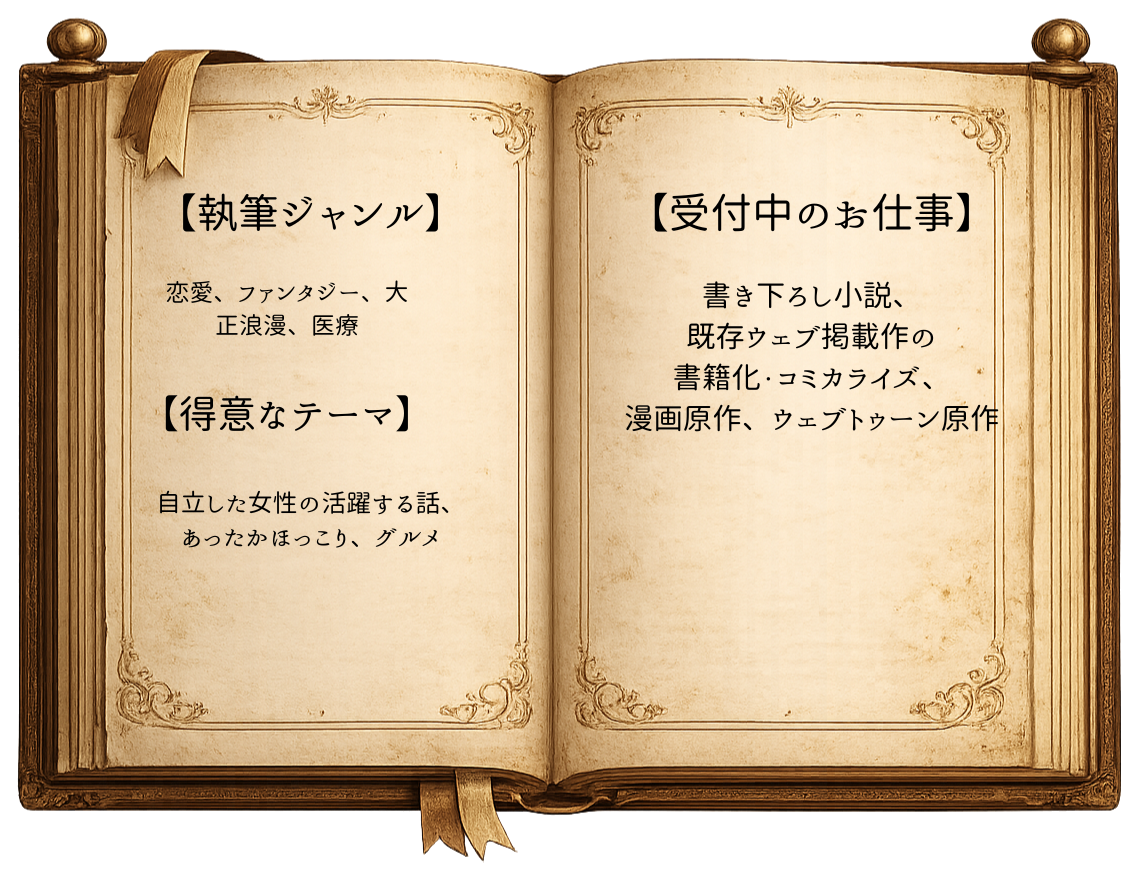
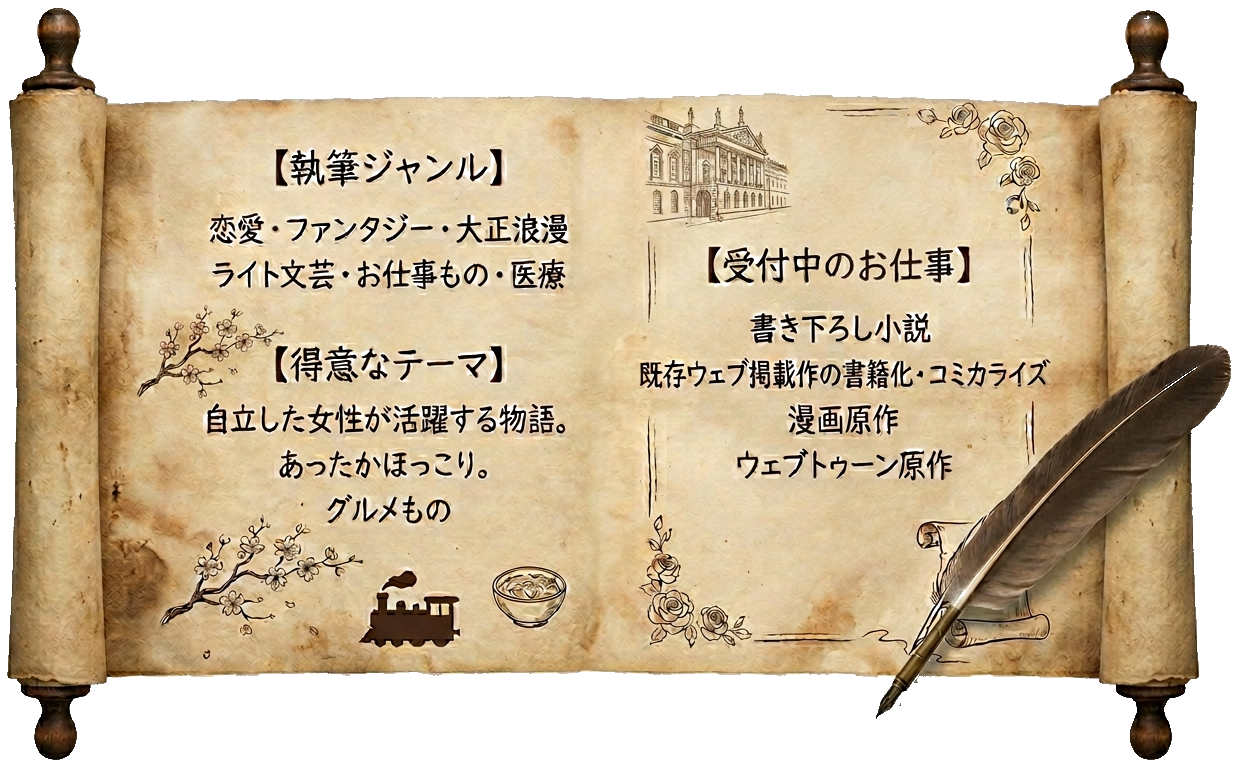
Replace author info book image

diff --git a/index.html b/index.html
@@ -273,7 +273,7 @@
             </div>
 
             <h2 id="author-info-heading" class="sr-only">作家情報</h2>
-            <img src="images/author-info-book.png" alt="執筆ジャンル: 恋愛、ファンタジー、大正浪漫、医療。得意なテーマ: 自立した女性の活躍する話、あったかほっこり、グルメ。受付中のお仕事: 書き下ろし小説、既存ウェブ掲載作の書籍化、コミカライズ、漫画原作、ウェブトゥーン原作。" width="1139" height="880" loading="lazy" class="author-info-book-image mx-auto">
+            <img src="images/author-info-book.png" alt="執筆ジャンル: 恋愛、ファンタジー、大正浪漫、ライト文芸、お仕事もの、医療。得意なテーマ: 自立した女性が活躍する物語、あったかほっこり、グルメもの。受付中のお仕事: 書き下ろし小説、既存ウェブ掲載作の書籍化、コミカライズ、漫画原作、ウェブトゥーン原作。" width="1245" height="767" loading="lazy" class="author-info-book-image mx-auto">
         </section>
 
         <!-- ============== AWARDS ============== -->
